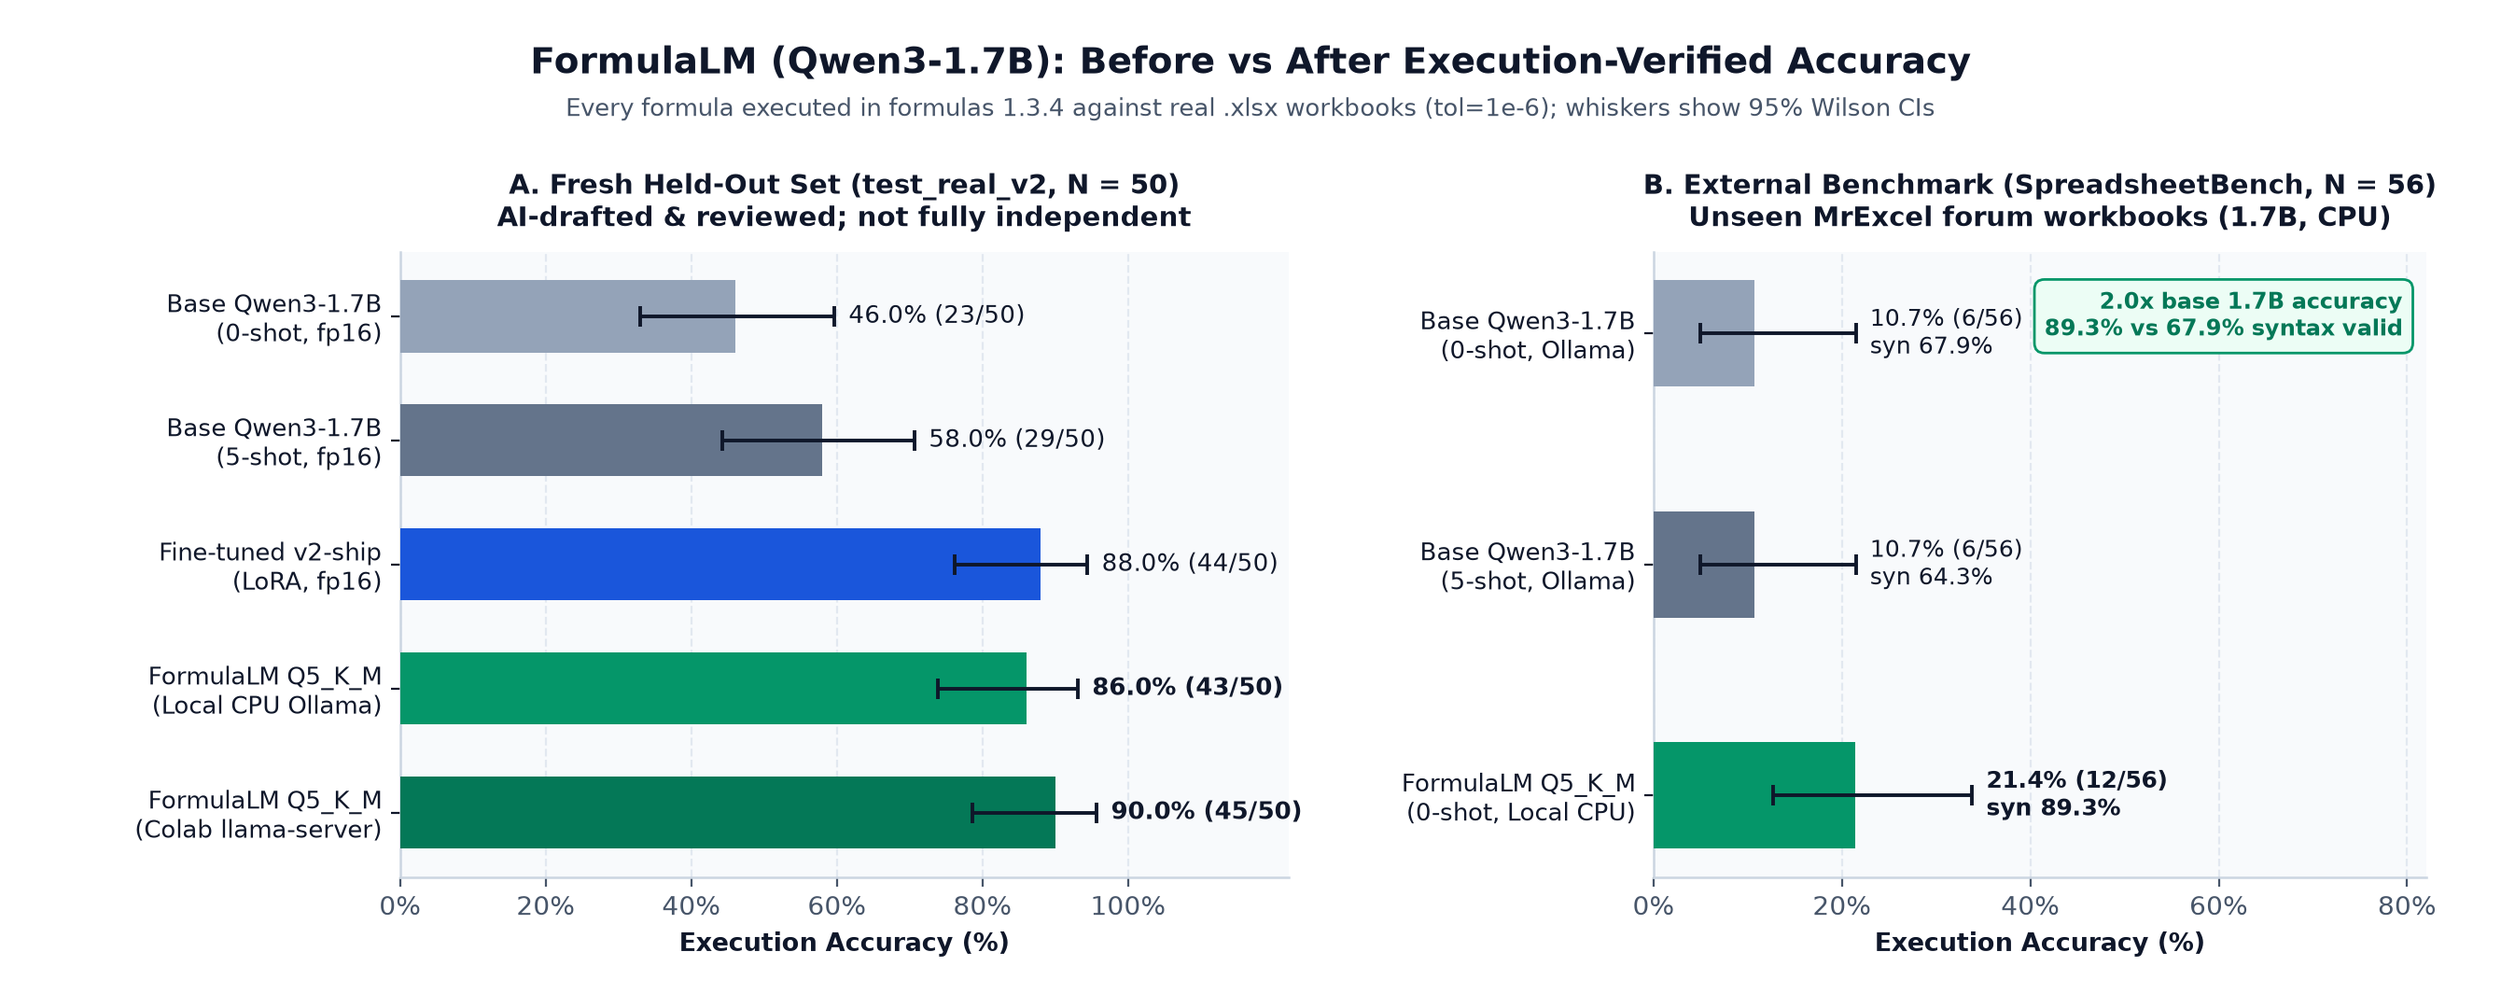
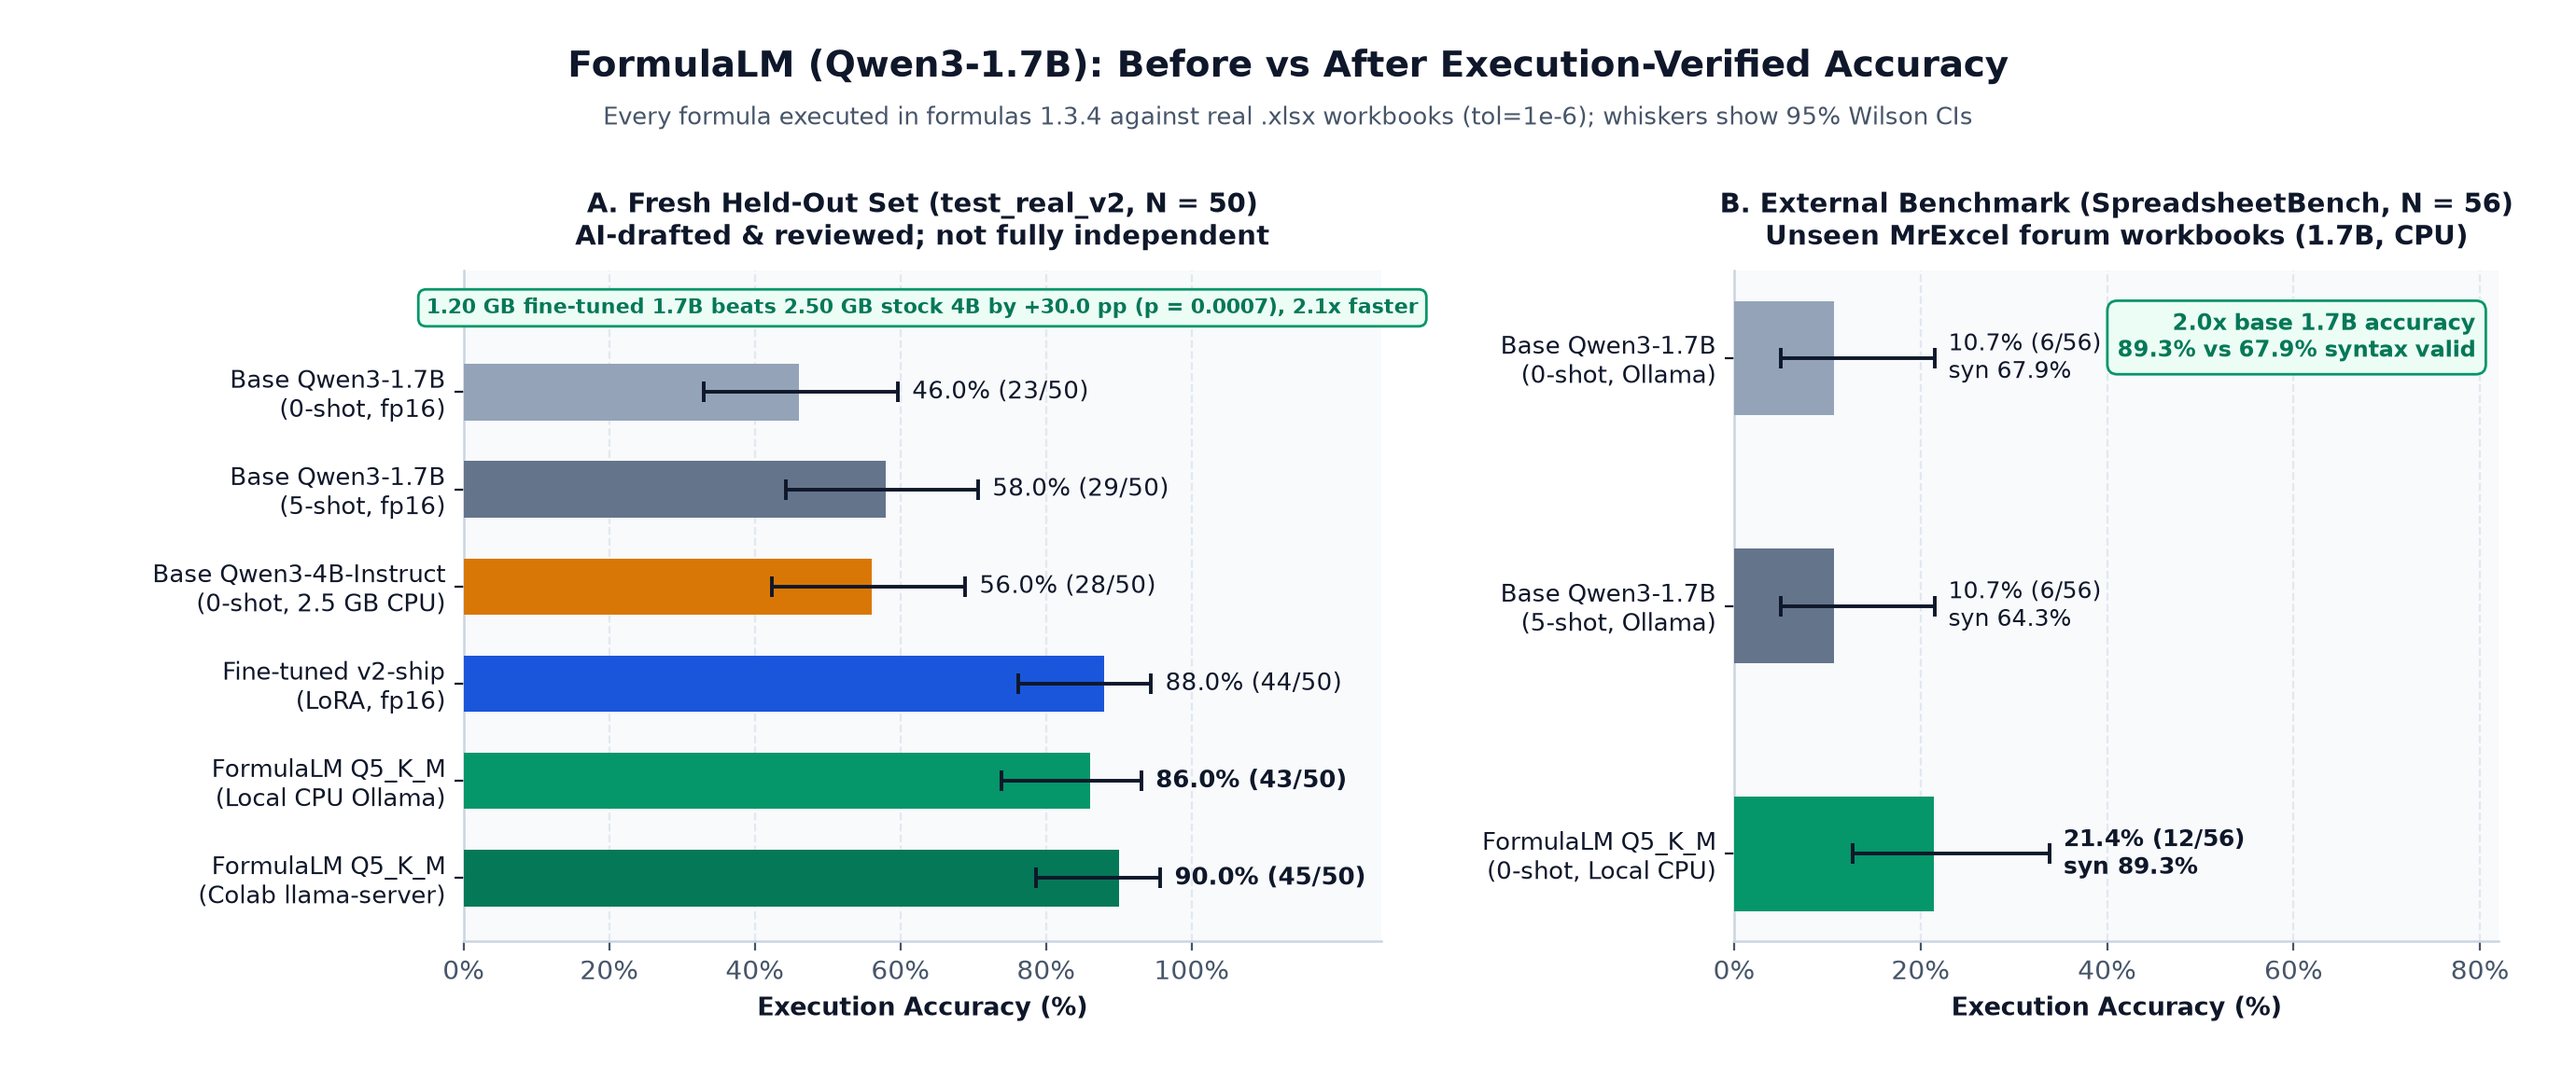
Add Qwen3-4B baseline, McNemar stats, SpreadsheetBench taxonomy, and CLI to FormulaLM showcase

diff --git a/showcase/qwen-local-hackathon-2026/formulalm/README.md b/showcase/qwen-local-hackathon-2026/formulalm/README.md
@@ -7,9 +7,15 @@
   - ModelScope: [GGUF (`Q5_K_M` shipped)](https://www.modelscope.ai/models/abubakar56/formulalm-qwen3-1.7b-gguf) · [v2 LoRA](https://www.modelscope.ai/models/abubakar56/formulalm-qwen3-1.7b-lora-v2) · [v1 LoRA fallback](https://www.modelscope.ai/models/abubakar56/formulalm-qwen3-1.7b-lora)
 - **Demo video:** [Watch local demo on X](https://x.com/abubakarp56/status/2126392963379179557)
 
+### Why FormulaLM stands out
+- **True modest-hardware proof:** benchmarked on a real 2019 **Intel Core i5-8365U, 8 GB RAM, CPU-only (0 GPU)** Windows 11 laptop — `Q5_K_M` (`1,199.6 MB`) loads in **2.64 s**, peaks at **1,476.5 MB (~1.48 GB) RAM**, and runs at **11.3 tok/s** (`Ollama 0.40.18`).
+- **Small fine-tuned beats 2.4× larger stock model:** on `test_real_v2` (`N=50`), **1.20 GB FormulaLM `1.7B` (`86.0%` local / `90.0%` Colab)** outperforms **2.50 GB stock `Qwen3-4B-Instruct-2507` (`56.0%`, `3.04 GB` RAM, `5.5 tok/s`)** by **`+30.0 pp`** (exact McNemar `17/2`, **`p = 0.0007`**) at half the RAM and **2.1× faster generation**.
+- **Statistically verified quantization engineering:** `Q5_K_M` beats `Q4_K_M` with `11/0` discordant wins on `val` (`N=500`, **`p = 0.0010`**) and `18/3` on `test_synthetic` (`N=500`, **`p = 0.0015`**) for only `+143.5 MB`.
+- **Execution-verified across two benchmarks + end-to-end tool:** every formula runs in Python `formulas 1.3.4` (`tol=1e-6`), covering `test_real_v2` (`N=50`) and independent NeurIPS 2024 `SpreadsheetBench Verified 400` (`N=56`, **2.0× accuracy** `21.4%` vs `10.7%`, syntax validity `89.3%` vs `67.9%`, **`p = 0.0075`**); ships with a Gradio web app (`.xlsx` formula injection & download), a one-command **`formulalm` CLI**, and all 3 artifacts published on **both Hugging Face & ModelScope** (`abubakar56`).
+
 ## What it does
 
-FormulaLM is a QLoRA-tuned, `Q5_K_M`-quantized `Qwen/Qwen3-1.7B` model (non-thinking mode) that takes a spreadsheet schema (column letters, headers, types, row bounds) plus a plain-English request and returns a single Excel formula (`=...` only), verified by executing the formula against the workbook. It runs offline on a CPU-only laptop via Ollama and a local Gradio app supporting held-out sheets, CSV/XLSX uploads (`<= 1 MB`) or pasted headers, and **safe `.xlsx` formula injection & download** (writes the verified formula into an auto-selected summary row or chosen empty cell and exports a ready-to-open `.xlsx` workbook).
+FormulaLM is a QLoRA-tuned, `Q5_K_M`-quantized `Qwen/Qwen3-1.7B` model (non-thinking mode) that takes a spreadsheet schema (column letters, headers, types, row bounds) plus a plain-English request and returns a single Excel formula (`=...` only), verified by executing the formula against the workbook. It runs offline on a CPU-only laptop via Ollama, a **one-command CLI (`uv run formulalm`)**, and a local Gradio app supporting held-out sheets, CSV/XLSX uploads (`<= 1 MB`) or pasted headers, and **safe `.xlsx` formula injection & download** (writes the verified formula into an auto-selected summary row or chosen empty cell and exports a ready-to-open `.xlsx` workbook).
 
 ## Why I built it
 
@@ -47,7 +53,24 @@ ollama run --think=false formulalm $'Sheet: sales_retail_store (rows 2..115)\nCo
 # Output: =SUMIF(C2:C115,"Mirehaven",F2:F115)  (executes to 10205.82)
 ```
 
-Optional local Gradio UI: `git clone https://github.com/abubakarp789/FormulaLM.git && cd FormulaLM && uv sync && .\scripts\run_demo.ps1`.
+Optional one-command CLI (supports direct `ollama pull hf.co/...` without manual `Modelfile` setup) & local Gradio UI:
+
+```bash
+git clone https://github.com/abubakarp789/FormulaLM.git && cd FormulaLM && uv sync
+
+# One-command CLI: generate + execution-verify + inject formula into a real .xlsx file
+uv run formulalm "Total Net Amount for Brinport sales" \
+  --file data/sheets/sales_retail_store.xlsx --cell K2 --out sales_out.xlsx
+
+# Or pull directly from Hugging Face via Ollama and pass --model to the CLI:
+ollama pull hf.co/abubakar56/formulalm-qwen3-1.7b-gguf:Q5_K_M
+uv run formulalm "Total Net Amount for Brinport sales" \
+  --file data/sheets/sales_retail_store.xlsx --model hf.co/abubakar56/formulalm-qwen3-1.7b-gguf:Q5_K_M --json
+
+# Or launch the local Gradio UI (Windows PowerShell):
+.\scripts\run_demo.ps1
+```
+*(Use `ollama create formulalm -f Modelfile` for bare `ollama run` and exact eval parity, since bare `hf.co/...` omits the baked FormulaLM system prompt.)*
 
 ## Before and after
 
@@ -58,14 +81,15 @@ Every prediction is validated against an allow-list of 36 non-volatile functions
 
 ### Fresh held-out set (`test_real_v2`, `N = 50`, not fully independent)
 
-| System | Eval Runtime | Exec. Accuracy (`N = 50`) | Exact Match | Syntax Valid |
-|---|---|---:|---:|---:|
-| Base `Qwen3-1.7B` (0-shot, fp16) | Colab T4 | **46.0%** (23/50, `[33.0%, 59.6%]`) | 40.0% | 76.0% |
-| Base `Qwen3-1.7B` (5-shot, fp16) | Colab T4 | **58.0%** (29/50, `[44.2%, 70.6%]`) | 46.0% | 88.0% |
-| Fine-tuned v1 (`v1-frozen`, fp16) | Colab T4 | **88.0%** (44/50, `[76.2%, 94.4%]`) | 82.0% | 100.0% |
-| Fine-tuned v2 (`v2-ship`, fp16) | Colab T4 | **88.0%** (44/50, `[76.2%, 94.4%]`) | 86.0% | 100.0% |
-| **v2 `Q5_K_M` GGUF (Shipped)** | Colab `llama-server` | **90.0%** (45/50, `[78.6%, 95.7%]`) | 88.0% | 100.0% |
-| **v2 `Q5_K_M` GGUF (Shipped)** | **Local CPU Ollama** | **86.0%** (43/50, `[73.8%, 93.0%]`) | 84.0% | 100.0% |
+| System | Eval Runtime | Size / RAM | Exec. Accuracy (`N = 50`) | Exact Match | Syntax Valid | Exact McNemar vs Local `Q5_K_M` |
+|---|---|---:|---:|---:|---:|---|
+| Base `Qwen3-1.7B` (0-shot, fp16) | Colab T4 | — | **46.0%** (23/50, `[33.0%, 59.6%]`) | 40.0% | 76.0% | `+40.0 pp` (`21/1`, **`p = 1.10e-05`**) |
+| Base `Qwen3-1.7B` (5-shot, fp16) | Colab T4 | — | **58.0%** (29/50, `[44.2%, 70.6%]`) | 46.0% | 88.0% | `+28.0 pp` (`16/2`, **`p = 0.0013`**) |
+| **Base `Qwen3-4B-Instruct-2507` (0-shot, `Q4_K_M`)** | **Local CPU Ollama** | **2.50 GB / 3.04 GB** | **56.0%** (28/50, `[42.3%, 68.8%]`) | 22.0% | 66.0% | **`+30.0 pp` (`17/2`, `p = 0.0007`)** |
+| Fine-tuned v1 (`v1-frozen`, fp16) | Colab T4 | 66.6 MB LoRA | **88.0%** (44/50, `[76.2%, 94.4%]`) | 82.0% | 100.0% | — |
+| Fine-tuned v2 (`v2-ship`, fp16) | Colab T4 | 66.6 MB LoRA | **88.0%** (44/50, `[76.2%, 94.4%]`) | 86.0% | 100.0% | — |
+| **v2 `Q5_K_M` GGUF (Shipped)** | Colab `llama-server` | 1.20 GB | **90.0%** (45/50, `[78.6%, 95.7%]`) | 88.0% | 100.0% | vs 4B: `+34.0 pp` (`17/0`, **`p = 1.53e-05`**) |
+| **v2 `Q5_K_M` GGUF (Shipped)** | **Local CPU Ollama** | **1.20 GB / 1.48 GB** | **86.0%** (43/50, `[73.8%, 93.0%]`) | 84.0% | 100.0% | **Baseline (11.3 vs 5.5 tok/s, 2.1× faster than 4B)** |
 
 ### External real-world benchmark (`SpreadsheetBench Verified 400`, `N = 56`, same-size `1.7B`, local CPU)
 
@@ -77,7 +101,18 @@ To measure true out-of-distribution transfer beyond synthetic data, we determini
 | Base `Qwen3-1.7B` (5-shot, Q4_K_M) | 56 | 6/56 | **10.7%** `[5.0%, 21.5%]` | 64.3% | 1/11 (9.1%) | 5/45 (11.1%) | 11.65 s | 8.8 | 2,012 MB |
 | **FormulaLM `Q5_K_M` (Shipped, 0-shot)** | 56 | **12/56** | **21.4%** `[12.7%, 33.8%]` | **89.3%** | **3/11 (27.3%)** | **9/45 (20.0%)** | 12.16 s | 9.0 | **2,006 MB** |
 
-On unseen messy real-world forum sheets, **FormulaLM doubles Base `Qwen3-1.7B`** (`21.4%` vs `10.7%`, **2.0×**) and raises syntax validity from `67.9%` to **89.3%** (`+21.4 pp`), while honestly showing the domain gap between clean single-table synthetic sheets (`86–90%`) and multi-table forum essays (`21.4%`).
+On unseen messy real-world forum sheets, **FormulaLM doubles Base `Qwen3-1.7B`** (`21.4%` vs `10.7%`, **2.0×**, exact McNemar `9/3`, `p = 0.1460` — directional lift on `N=56`) and significantly lifts syntax validity from `67.9%` to **89.3%** (**`p = 0.0075`** vs 0-shot; **`p = 0.0013`** vs 5-shot). Decomposing all 56 tasks without filtering ([`error_taxonomy.md`](https://github.com/abubakarp789/FormulaLM/blob/main/results/external_bench/error_taxonomy.md)):
+
+| Breakdown (All 56 Frozen Tasks) | Base `1.7B` (0-shot) | Base `1.7B` (5-shot) | **FormulaLM `Q5_K_M`** |
+|---|---:|---:|---:|
+| **Correct (exact execution match)** | 6 (10.7%) | 6 (10.7%) | **12 (21.4%)** |
+| Valid execution, wrong range / logic | 15 (26.8%) | 16 (28.6%) | 22 (39.3%) |
+| Circular self-reference to target cell | 15 (26.8%) | 13 (23.2%) | 13 (23.2%) |
+| Syntax / parse error | 6 (10.7%) | 7 (12.5%) | **4 (7.1%)** |
+| **Unsupported / hallucinated function** | 12 (21.4%) | 13 (23.2%) | **2 (3.6%) — 6× drop** |
+| Runtime Excel error (`#N/A`, `#VALUE!`) | 2 (3.6%) | 1 (1.8%) | 3 (5.4%) |
+| *Pattern split: Standard trained single-formula grammar (`N = 37`)* | *6/37 (16.2%)* | *5/37 (13.5%)* | ***11/37 (29.7%)*** |
+| *Pattern split: Untrained idioms (`N = 19`: 2D matrix, `$D$2:D2` running anchors, CSE arrays, wildcards, 3+ IFs)* | *0/19 (0.0%)* | *1/19 (5.3%)* | *1/19 (5.3%)* |
 
 ### Quantization & Local CPU Benchmark (`v2-ship`, Windows 11 i5-8365U 8 GB CPU-only)
 
@@ -109,8 +144,8 @@ On unseen messy real-world forum sheets, **FormulaLM doubles Base `Qwen3-1.7B`**
 ## What we learned
 
 - **1 epoch at `lr=1e-4` stopped overfitting:** `v1` peaked at `checkpoint-200` (`val_loss = 0.004240`) and overfit past `checkpoint-200` through Epoch 2 (`train_loss -> 0.0000`, `val_loss` rebounding to `0.0095` at step 300 and `0.0086` at step 1000). `v2` lowered `val_loss` to `0.003975` in 19.0 min, though `v1` and `v2` remain statistically tied (`44/50` fp16 on `test_real_v2`, `498/500` on `val`).
-- **Quantization choice matters on formulas:** `Q4_K_M` dropped `2.4–5.0 pp` vs `F16` (`-2.4 pp` val, `-3.4 pp` synthetic, `-5.0 pp` `test_real`), whereas `Q5_K_M` stayed within `-0.4 to +2.0 pp` (sampling noise) for only `+143.5 MB`.
-- **What remains uncertain:** Local CPU Ollama and Colab CUDA `llama-server` differed by 2 examples on `test_real_v2` (`43/50` vs `45/50`), and true real-world accuracy needs an independently human-authored workbook benchmark.
+- **Quantization choice matters on formulas:** `Q4_K_M` dropped `2.4–5.0 pp` vs `F16` (`-2.4 pp` val, `-3.4 pp` synthetic, `-5.0 pp` `test_real`), and paired exact McNemar tests confirm `Q5_K_M > Q4_K_M` (`val` `N=500`: `11/0` wins, `p = 0.0010`; `test_synthetic` `N=500`: `18/3` wins, `p = 0.0015`) for only `+143.5 MB`.
+- **What remains uncertain:** Local CPU Ollama and Colab CUDA `llama-server` differed by 2 examples on `test_real_v2` (`43/50` vs `45/50`), and closing the remaining gap on messy multi-table forum sheets (`SpreadsheetBench`, `21.4%` overall / `29.7%` on trained-grammar patterns) requires adding drag-down anchored windows, 2D matrix lookups, and circular-reference avoidance to the training distribution.
 
 ## Team
 
